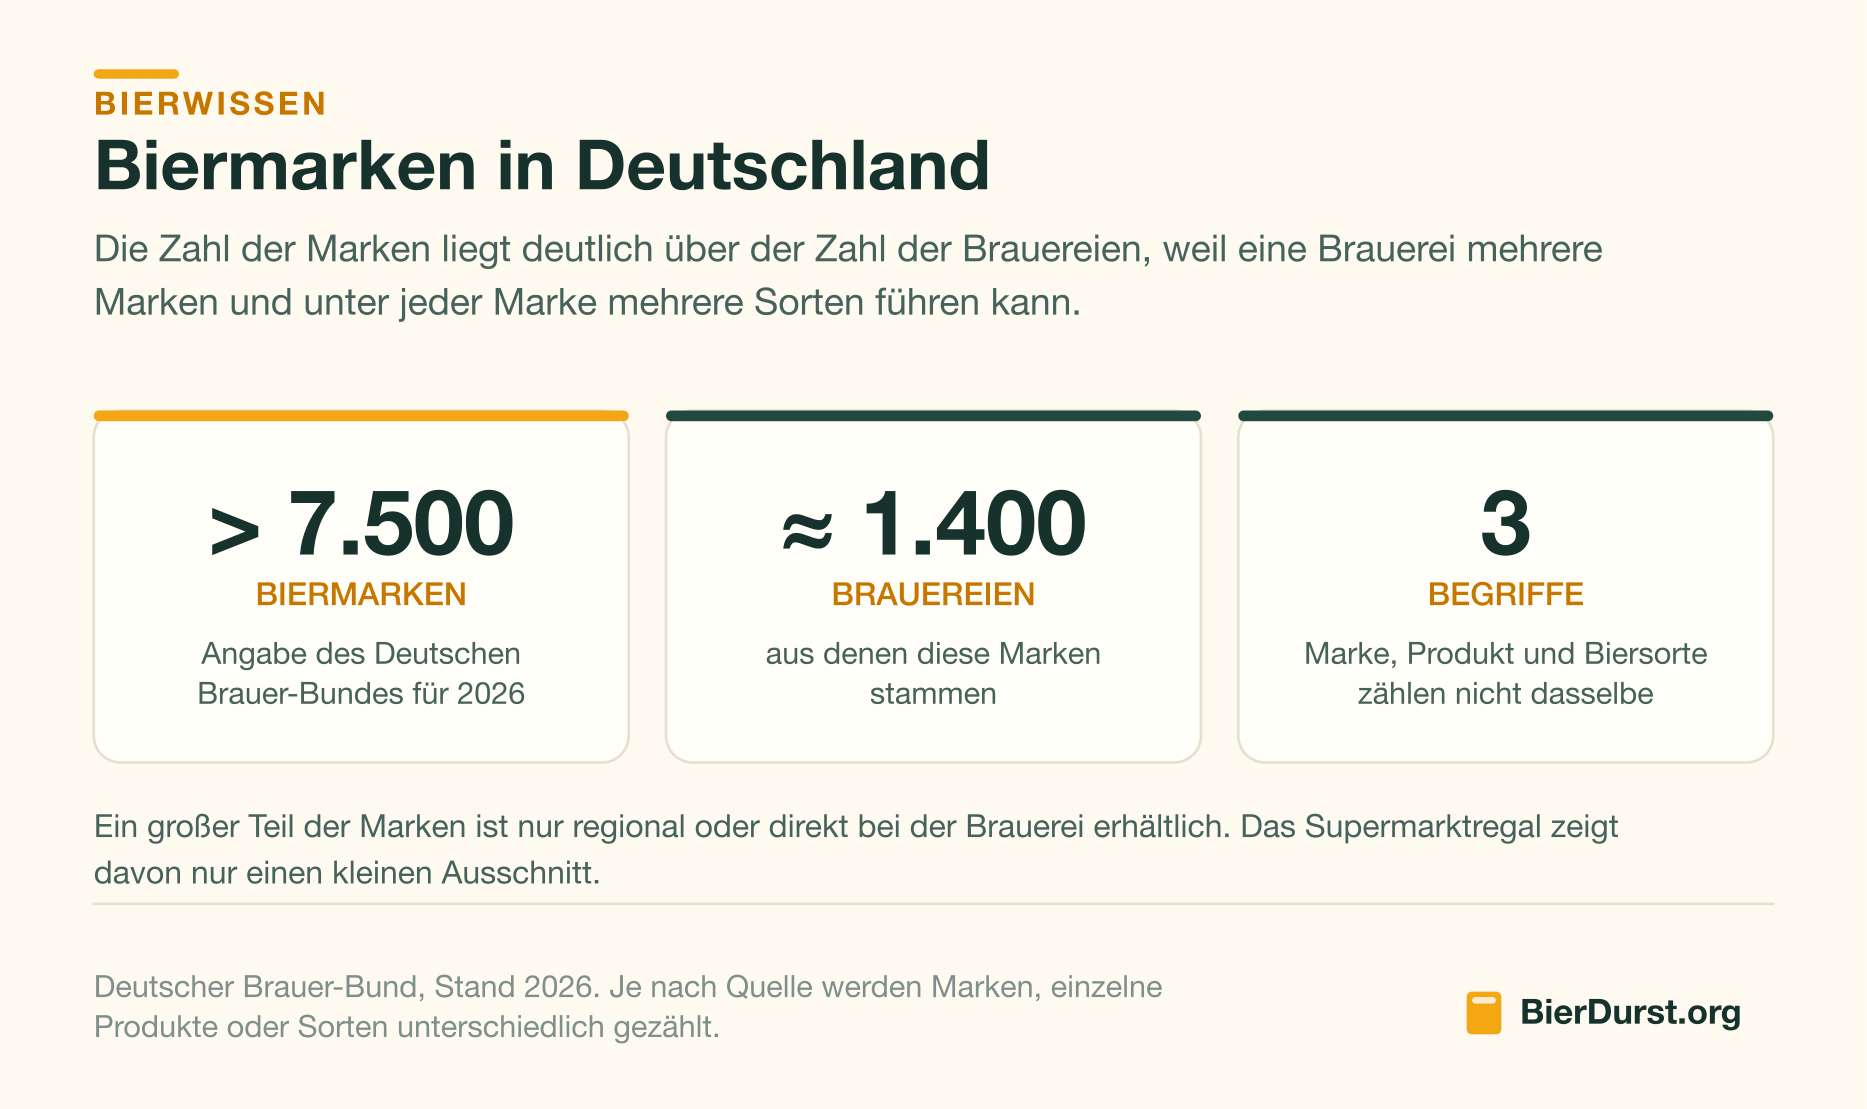
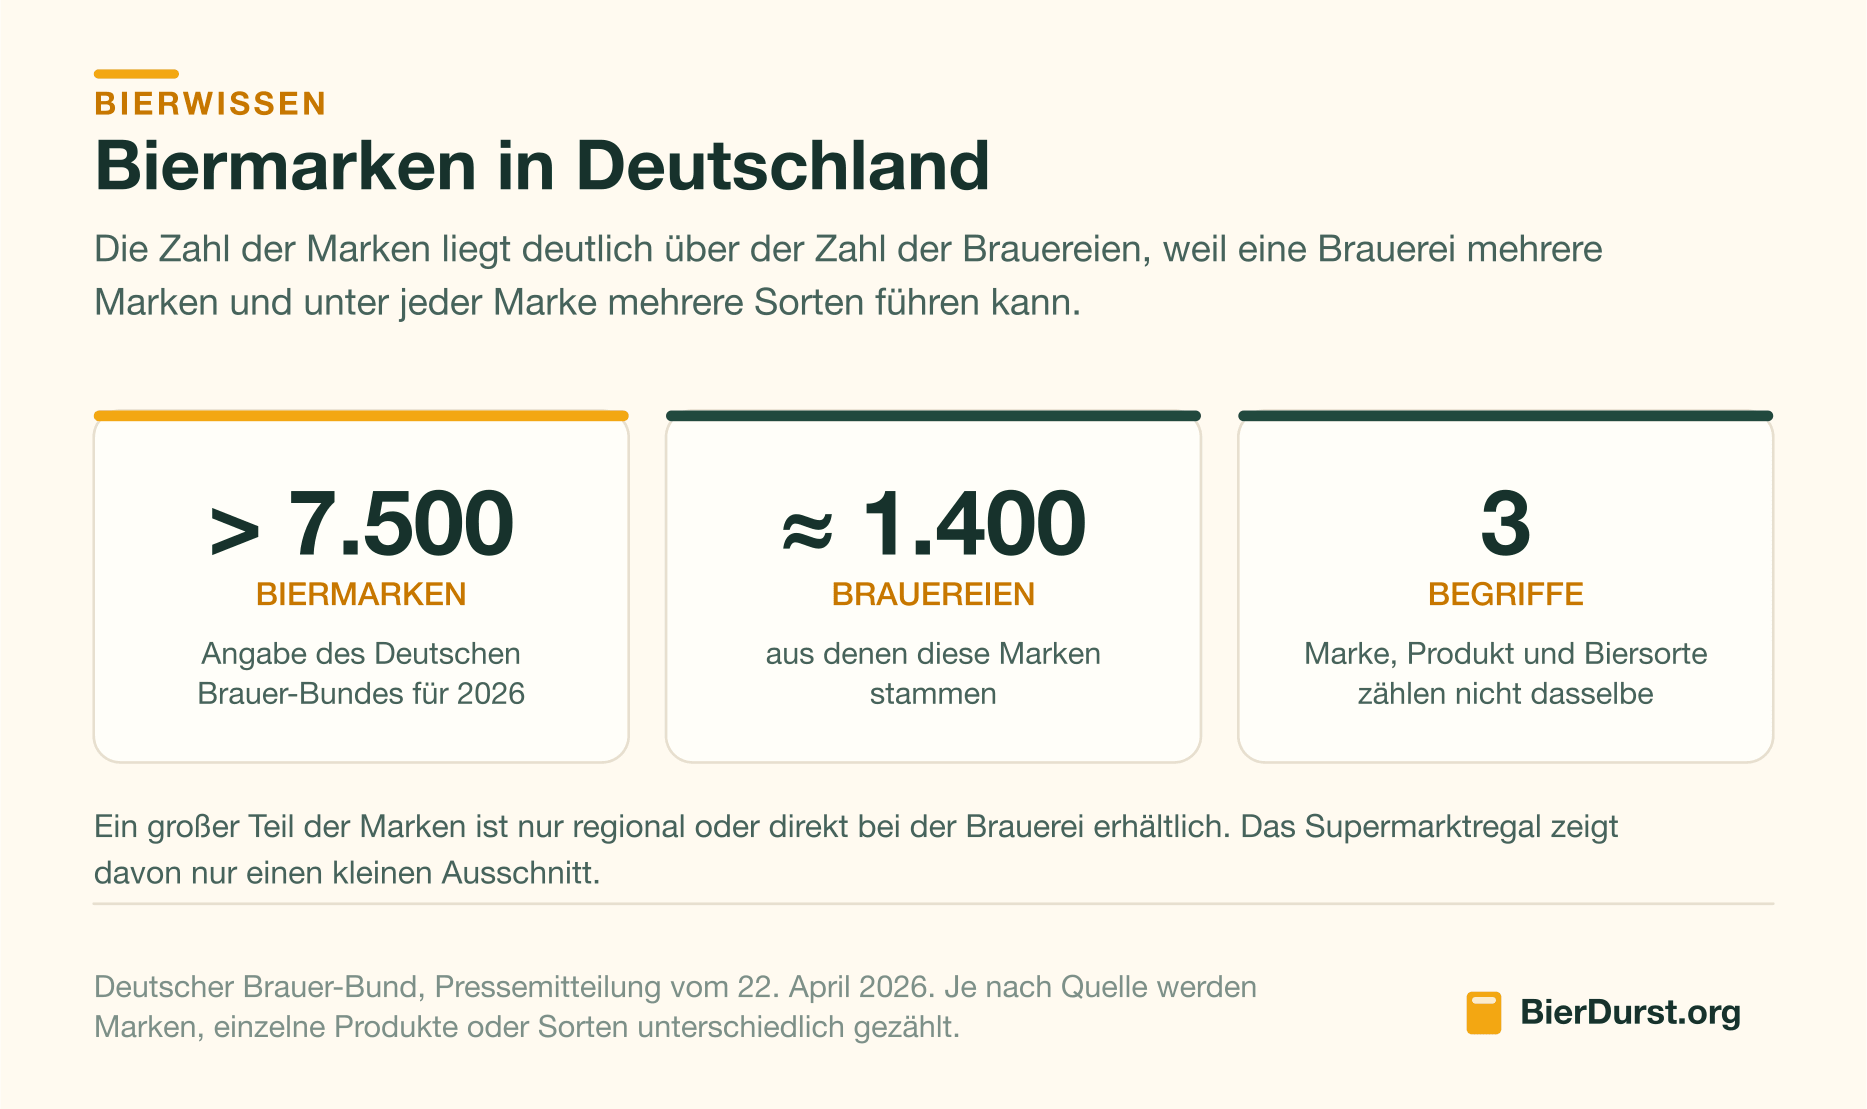
Zwei Inhaltswidersprueche behoben
Doppelte Temperaturtabelle: /bierwissen/optimale-trinktemperatur-bier/
fuehrte zwei Tabellen mit abweichenden Werten. Weizenbier stand einmal
bei 7 bis 9 Grad, einmal in der Gruppe "Helles, Koelsch und Weizen" bei
6 bis 9; Bock einmal bei 9 bis 12, einmal bei 10 bis 13. Die zweite
Tabelle ist entfernt. Geblieben ist die erste: Sie ist feiner
gegliedert und deckt sich mit den Steckbriefen der Sortenseiten
(Weizenbier 7 bis 9, Helles 6 bis 8, Dunkelbier 8 bis 10). Ihr
Schlusssatz ist aus der geloeschten Tabelle uebernommen, die Grafik
folgt jetzt den verbliebenen sechs Zeilen.

Markenzahl: data/beer-market-statistics.json nannte "rund 7.000"
Biermarken und belegte das mit der FAQ-Seite des Brauer-Bundes, waehrend
beide Inhaltsseiten "mehr als 7.500" schreiben. Nachgeprueft an der
Pressemitteilung des Deutschen Brauer-Bundes vom 22. April 2026: Dort
stehen "mehr als 7.500 Biermarken" aus "rund 1.400 deutschen
Brauereien". Der Datensatz folgt jetzt dieser Quelle.

Im Bierkompendium stand die Zahl zweimal fest im Astro-Template und lief
dadurch gegen den Datensatz. Beide Stellen lesen sie jetzt von dort.
Damit nennen alle 17 Fundstellen im Build dieselbe Zahl.

Changed region(s): [[0.0621, 0.8584, 0.6834, 0.9504]]

diff --git a/content/bierwissen/optimale-trinktemperatur-bier/index.md b/content/bierwissen/optimale-trinktemperatur-bier/index.md
@@ -39,6 +39,9 @@ index: true
 | Kellerbier, Dunkel und Schwarzbier | 8 bis 10 °C |
 | Bock und kräftige Ales | 9 bis 12 °C |
 | Doppelbock, Eisbock und Imperial Stout | 11 bis 14 °C |
+
+Das sind Startwerte. Wer ein Bier wärmer werden lässt, nimmt häufig mehr Aroma wahr; sehr kaltes Bier wirkt dagegen oft milder und weniger bitter.
+
 ## Warum zu kalt problematisch ist
 
 Bei sehr niedrigen Temperaturen riechen und schmecken wir weniger. Malz, Hopfen und Hefe wirken flacher. Das kann bei einem einfachen Durstlöscher angenehm sein, nimmt komplexen Bieren aber ihren Charakter.
@@ -48,19 +51,6 @@ Kohlensäure entweicht schneller, Alkohol tritt stärker hervor und das Bier wir
 ## Praktische Regel
 
 Bier darf etwas kühler eingeschenkt werden als die Zieltemperatur, weil es sich im Glas erwärmt. Ein starkes Bier kann zehn bis zwanzig Minuten vor dem Trinken aus dem Kühlschrank genommen werden.
-
-
-## Trinktemperaturen nach Bierstil
-
-| Bierstil | Gute Ausgangstemperatur |
-|---|---:|
-| Pils und leichtes Lager | 5–7 °C |
-| Helles, Kölsch und Weizen | 6–9 °C |
-| Kellerbier, Dunkel und Märzen | 8–10 °C |
-| Bockbier und kräftige Ales | 10–13 °C |
-| sehr starke Stouts und Spezialbiere | 12–15 °C |
-
-Das sind Startwerte. Wer ein Bier wärmer werden lässt, nimmt häufig mehr Aroma wahr; sehr kaltes Bier wirkt dagegen oft milder und weniger bitter.
 
 ## Häufige Fragen
 
